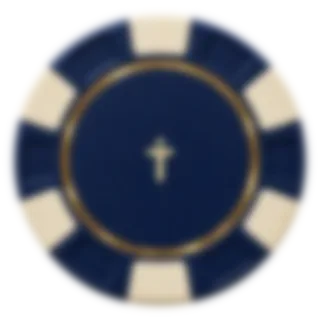
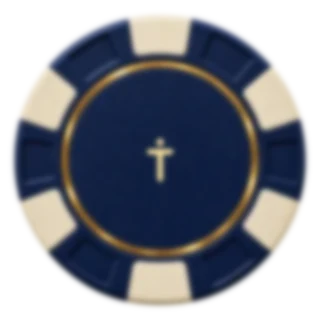
feat: Gate B round 11 title redesign with topper and belly options, remove chip and coin ghost rings

diff --git a/index.html b/index.html
@@ -42,19 +42,26 @@
                 <animate attributeName="x1" values="-.8;.8" dur="3.2s" repeatCount="indefinite"/>
                 <animate attributeName="x2" values=".2;1.8" dur="3.2s" repeatCount="indefinite"/>
               </linearGradient>
-              <image id="marquee-bulb-unlit" href="/assets/mock/marquee-bulb-unlit.webp" x="-7" y="-7" width="14" height="14"/>
-              <image id="marquee-bulb-lit" href="/assets/mock/marquee-bulb-lit.webp" x="-7" y="-7" width="14" height="14"/>
+              <linearGradient id="title-glass" x1="0" y1="0" x2="0" y2="1">
+                <stop offset="0" stop-color="#2b070d"/>
+                <stop offset=".48" stop-color="#090506"/>
+                <stop offset="1" stop-color="#310710"/>
+              </linearGradient>
+              <linearGradient id="title-reflection" x1="0" y1="0" x2="1" y2="1">
+                <stop offset="0" stop-color="#fff7d2" stop-opacity=".22"/>
+                <stop offset=".28" stop-color="#fff7d2" stop-opacity="0"/>
+                <stop offset="1" stop-color="#fff7d2" stop-opacity=".08"/>
+              </linearGradient>
+              <image id="marquee-bulb-unlit" href="/assets/mock/marquee-bulb-unlit.webp" x="-15" y="-15" width="30" height="30"/>
+              <image id="marquee-bulb-lit" href="/assets/mock/marquee-bulb-lit.webp" x="-15" y="-15" width="30" height="30"/>
             </defs>
-            <rect x="42" y="18" width="716" height="132" rx="30" fill="#130307" fill-opacity=".92" stroke="#8f5c12" stroke-width="5"/>
-            <rect x="51" y="27" width="698" height="114" rx="24" fill="none" stroke="#e4b94f" stroke-width="2" stroke-opacity=".75"/>
-            <g fill="#ffd66d">
-              <circle cx="28" cy="45" r="6"><animate attributeName="fill-opacity" values=".35;1;.35" dur="1.6s" repeatCount="indefinite"/></circle>
-              <circle cx="772" cy="45" r="6"><animate attributeName="fill-opacity" values="1;.35;1" dur="1.6s" repeatCount="indefinite"/></circle>
-              <circle cx="28" cy="120" r="6"><animate attributeName="fill-opacity" values=".5;1;.5" dur="1.3s" repeatCount="indefinite"/></circle>
-              <circle cx="772" cy="120" r="6"><animate attributeName="fill-opacity" values="1;.5;1" dur="1.3s" repeatCount="indefinite"/></circle>
+            <g class="marquee__panel">
+              <rect x="20" y="10" width="760" height="150" rx="34" fill="#2a1005" stroke="#6d3d09" stroke-width="8"/>
+              <rect x="28" y="18" width="744" height="134" rx="27" fill="url(#title-glass)" stroke="url(#title-gold)" stroke-width="4"/>
+              <path class="marquee__reflection" d="M48 31 H752 Q705 67 530 72 H88 Q58 64 48 31Z" fill="url(#title-reflection)"/>
             </g>
             <g class="marquee__title">
-              <image class="marquee__wordmark" href="/assets/emblem/trust-wordmark.svg" x="96" y="43" width="214" height="66" preserveAspectRatio="xMidYMid meet"/>
+              <image class="marquee__wordmark" href="/assets/emblem/trust-wordmark.svg" x="70" y="47" width="300" height="76" preserveAspectRatio="xMidYMid meet"/>
               <g class="marquee__wordmark-bulbs">
                 <g class="marquee__bulb" style="--i:0" transform="translate(115 48)"><use class="marquee__bulb-unlit" href="#marquee-bulb-unlit"/><use class="marquee__bulb-lit" href="#marquee-bulb-lit"/></g>
                 <g class="marquee__bulb" style="--i:1" transform="translate(101 61)"><use class="marquee__bulb-unlit" href="#marquee-bulb-unlit"/><use class="marquee__bulb-lit" href="#marquee-bulb-lit"/></g><g class="marquee__bulb" style="--i:2" transform="translate(111 61)"><use class="marquee__bulb-unlit" href="#marquee-bulb-unlit"/><use class="marquee__bulb-lit" href="#marquee-bulb-lit"/></g><g class="marquee__bulb" style="--i:3" transform="translate(121 61)"><use class="marquee__bulb-unlit" href="#marquee-bulb-unlit"/><use class="marquee__bulb-lit" href="#marquee-bulb-lit"/></g><g class="marquee__bulb" style="--i:4" transform="translate(132 61)"><use class="marquee__bulb-unlit" href="#marquee-bulb-unlit"/><use class="marquee__bulb-lit" href="#marquee-bulb-lit"/></g>
@@ -64,7 +71,7 @@
                 <g class="marquee__bulb" style="--i:21" transform="translate(258 67)"><use class="marquee__bulb-unlit" href="#marquee-bulb-unlit"/><use class="marquee__bulb-lit" href="#marquee-bulb-lit"/></g><g class="marquee__bulb" style="--i:22" transform="translate(247 63)"><use class="marquee__bulb-unlit" href="#marquee-bulb-unlit"/><use class="marquee__bulb-lit" href="#marquee-bulb-lit"/></g><g class="marquee__bulb" style="--i:23" transform="translate(236 65)"><use class="marquee__bulb-unlit" href="#marquee-bulb-unlit"/><use class="marquee__bulb-lit" href="#marquee-bulb-lit"/></g><g class="marquee__bulb" style="--i:24" transform="translate(229 72)"><use class="marquee__bulb-unlit" href="#marquee-bulb-unlit"/><use class="marquee__bulb-lit" href="#marquee-bulb-lit"/></g><g class="marquee__bulb" style="--i:25" transform="translate(236 79)"><use class="marquee__bulb-unlit" href="#marquee-bulb-unlit"/><use class="marquee__bulb-lit" href="#marquee-bulb-lit"/></g><g class="marquee__bulb" style="--i:26" transform="translate(247 82)"><use class="marquee__bulb-unlit" href="#marquee-bulb-unlit"/><use class="marquee__bulb-lit" href="#marquee-bulb-lit"/></g><g class="marquee__bulb" style="--i:27" transform="translate(258 87)"><use class="marquee__bulb-unlit" href="#marquee-bulb-unlit"/><use class="marquee__bulb-lit" href="#marquee-bulb-lit"/></g><g class="marquee__bulb" style="--i:28" transform="translate(261 96)"><use class="marquee__bulb-unlit" href="#marquee-bulb-unlit"/><use class="marquee__bulb-lit" href="#marquee-bulb-lit"/></g><g class="marquee__bulb" style="--i:29" transform="translate(250 103)"><use class="marquee__bulb-unlit" href="#marquee-bulb-unlit"/><use class="marquee__bulb-lit" href="#marquee-bulb-lit"/></g><g class="marquee__bulb" style="--i:30" transform="translate(236 100)"><use class="marquee__bulb-unlit" href="#marquee-bulb-unlit"/><use class="marquee__bulb-lit" href="#marquee-bulb-lit"/></g>
                 <g class="marquee__bulb" style="--i:31" transform="translate(289 61)"><use class="marquee__bulb-unlit" href="#marquee-bulb-unlit"/><use class="marquee__bulb-lit" href="#marquee-bulb-lit"/></g><g class="marquee__bulb" style="--i:32" transform="translate(299 61)"><use class="marquee__bulb-unlit" href="#marquee-bulb-unlit"/><use class="marquee__bulb-lit" href="#marquee-bulb-lit"/></g><g class="marquee__bulb" style="--i:33" transform="translate(309 61)"><use class="marquee__bulb-unlit" href="#marquee-bulb-unlit"/><use class="marquee__bulb-lit" href="#marquee-bulb-lit"/></g><g class="marquee__bulb" style="--i:34" transform="translate(291 73)"><use class="marquee__bulb-unlit" href="#marquee-bulb-unlit"/><use class="marquee__bulb-lit" href="#marquee-bulb-lit"/></g><g class="marquee__bulb" style="--i:35" transform="translate(291 86)"><use class="marquee__bulb-unlit" href="#marquee-bulb-unlit"/><use class="marquee__bulb-lit" href="#marquee-bulb-lit"/></g><g class="marquee__bulb" style="--i:36" transform="translate(291 99)"><use class="marquee__bulb-unlit" href="#marquee-bulb-unlit"/><use class="marquee__bulb-lit" href="#marquee-bulb-lit"/></g>
               </g>
-              <text class="marquee__royale" x="520" y="91" text-anchor="middle" fill="url(#title-gold)">ROYALE</text>
+              <text class="marquee__royale" x="550" y="111" text-anchor="middle" fill="url(#title-gold)">ROYALE</text>
               <g class="marquee__royale-bulbs">
                 <g class="marquee__bulb" style="--i:37" transform="translate(409 68)"><use class="marquee__bulb-unlit" href="#marquee-bulb-unlit"/><use class="marquee__bulb-lit" href="#marquee-bulb-lit"/></g><g class="marquee__bulb" style="--i:38" transform="translate(409 82)"><use class="marquee__bulb-unlit" href="#marquee-bulb-unlit"/><use class="marquee__bulb-lit" href="#marquee-bulb-lit"/></g><g class="marquee__bulb" style="--i:39" transform="translate(423 67)"><use class="marquee__bulb-unlit" href="#marquee-bulb-unlit"/><use class="marquee__bulb-lit" href="#marquee-bulb-lit"/></g><g class="marquee__bulb" style="--i:40" transform="translate(425 82)"><use class="marquee__bulb-unlit" href="#marquee-bulb-unlit"/><use class="marquee__bulb-lit" href="#marquee-bulb-lit"/></g>
                 <g class="marquee__bulb" style="--i:41" transform="translate(459 68)"><use class="marquee__bulb-unlit" href="#marquee-bulb-unlit"/><use class="marquee__bulb-lit" href="#marquee-bulb-lit"/></g><g class="marquee__bulb" style="--i:42" transform="translate(453 80)"><use class="marquee__bulb-unlit" href="#marquee-bulb-unlit"/><use class="marquee__bulb-lit" href="#marquee-bulb-lit"/></g><g class="marquee__bulb" style="--i:43" transform="translate(459 92)"><use class="marquee__bulb-unlit" href="#marquee-bulb-unlit"/><use class="marquee__bulb-lit" href="#marquee-bulb-lit"/></g><g class="marquee__bulb" style="--i:44" transform="translate(469 80)"><use class="marquee__bulb-unlit" href="#marquee-bulb-unlit"/><use class="marquee__bulb-lit" href="#marquee-bulb-lit"/></g>
@@ -74,7 +81,11 @@
                 <g class="marquee__bulb" style="--i:56" transform="translate(636 68)"><use class="marquee__bulb-unlit" href="#marquee-bulb-unlit"/><use class="marquee__bulb-lit" href="#marquee-bulb-lit"/></g><g class="marquee__bulb" style="--i:57" transform="translate(636 80)"><use class="marquee__bulb-unlit" href="#marquee-bulb-unlit"/><use class="marquee__bulb-lit" href="#marquee-bulb-lit"/></g><g class="marquee__bulb" style="--i:58" transform="translate(636 91)"><use class="marquee__bulb-unlit" href="#marquee-bulb-unlit"/><use class="marquee__bulb-lit" href="#marquee-bulb-lit"/></g><g class="marquee__bulb" style="--i:59" transform="translate(650 68)"><use class="marquee__bulb-unlit" href="#marquee-bulb-unlit"/><use class="marquee__bulb-lit" href="#marquee-bulb-lit"/></g><g class="marquee__bulb" style="--i:60" transform="translate(648 80)"><use class="marquee__bulb-unlit" href="#marquee-bulb-unlit"/><use class="marquee__bulb-lit" href="#marquee-bulb-lit"/></g><g class="marquee__bulb" style="--i:61" transform="translate(650 91)"><use class="marquee__bulb-unlit" href="#marquee-bulb-unlit"/><use class="marquee__bulb-lit" href="#marquee-bulb-lit"/></g>
               </g>
             </g>
-            <text class="marquee__subtitle" x="400" y="130" text-anchor="middle">Heating for Humans</text>
+            <g class="marquee__frame-bulbs">
+              <g class="marquee__frame-bulb" style="--i:0" transform="translate(86 22)"><use class="marquee__bulb-unlit" href="#marquee-bulb-unlit"/><use class="marquee__bulb-lit" href="#marquee-bulb-lit"/></g><g class="marquee__frame-bulb" style="--i:1" transform="translate(134 22)"><use class="marquee__bulb-unlit" href="#marquee-bulb-unlit"/><use class="marquee__bulb-lit" href="#marquee-bulb-lit"/></g><g class="marquee__frame-bulb" style="--i:2" transform="translate(182 22)"><use class="marquee__bulb-unlit" href="#marquee-bulb-unlit"/><use class="marquee__bulb-lit" href="#marquee-bulb-lit"/></g><g class="marquee__frame-bulb" style="--i:3" transform="translate(230 22)"><use class="marquee__bulb-unlit" href="#marquee-bulb-unlit"/><use class="marquee__bulb-lit" href="#marquee-bulb-lit"/></g><g class="marquee__frame-bulb" style="--i:4" transform="translate(278 22)"><use class="marquee__bulb-unlit" href="#marquee-bulb-unlit"/><use class="marquee__bulb-lit" href="#marquee-bulb-lit"/></g><g class="marquee__frame-bulb" style="--i:5" transform="translate(326 22)"><use class="marquee__bulb-unlit" href="#marquee-bulb-unlit"/><use class="marquee__bulb-lit" href="#marquee-bulb-lit"/></g><g class="marquee__frame-bulb" style="--i:6" transform="translate(374 22)"><use class="marquee__bulb-unlit" href="#marquee-bulb-unlit"/><use class="marquee__bulb-lit" href="#marquee-bulb-lit"/></g><g class="marquee__frame-bulb" style="--i:7" transform="translate(426 22)"><use class="marquee__bulb-unlit" href="#marquee-bulb-unlit"/><use class="marquee__bulb-lit" href="#marquee-bulb-lit"/></g><g class="marquee__frame-bulb" style="--i:8" transform="translate(474 22)"><use class="marquee__bulb-unlit" href="#marquee-bulb-unlit"/><use class="marquee__bulb-lit" href="#marquee-bulb-lit"/></g><g class="marquee__frame-bulb" style="--i:9" transform="translate(522 22)"><use class="marquee__bulb-unlit" href="#marquee-bulb-unlit"/><use class="marquee__bulb-lit" href="#marquee-bulb-lit"/></g><g class="marquee__frame-bulb" style="--i:10" transform="translate(570 22)"><use class="marquee__bulb-unlit" href="#marquee-bulb-unlit"/><use class="marquee__bulb-lit" href="#marquee-bulb-lit"/></g><g class="marquee__frame-bulb" style="--i:11" transform="translate(618 22)"><use class="marquee__bulb-unlit" href="#marquee-bulb-unlit"/><use class="marquee__bulb-lit" href="#marquee-bulb-lit"/></g><g class="marquee__frame-bulb" style="--i:12" transform="translate(666 22)"><use class="marquee__bulb-unlit" href="#marquee-bulb-unlit"/><use class="marquee__bulb-lit" href="#marquee-bulb-lit"/></g><g class="marquee__frame-bulb" style="--i:13" transform="translate(714 22)"><use class="marquee__bulb-unlit" href="#marquee-bulb-unlit"/><use class="marquee__bulb-lit" href="#marquee-bulb-lit"/></g>
+              <g class="marquee__frame-bulb" style="--i:14" transform="translate(86 148)"><use class="marquee__bulb-unlit" href="#marquee-bulb-unlit"/><use class="marquee__bulb-lit" href="#marquee-bulb-lit"/></g><g class="marquee__frame-bulb" style="--i:15" transform="translate(134 148)"><use class="marquee__bulb-unlit" href="#marquee-bulb-unlit"/><use class="marquee__bulb-lit" href="#marquee-bulb-lit"/></g><g class="marquee__frame-bulb" style="--i:16" transform="translate(182 148)"><use class="marquee__bulb-unlit" href="#marquee-bulb-unlit"/><use class="marquee__bulb-lit" href="#marquee-bulb-lit"/></g><g class="marquee__frame-bulb" style="--i:17" transform="translate(230 148)"><use class="marquee__bulb-unlit" href="#marquee-bulb-unlit"/><use class="marquee__bulb-lit" href="#marquee-bulb-lit"/></g><g class="marquee__frame-bulb" style="--i:18" transform="translate(278 148)"><use class="marquee__bulb-unlit" href="#marquee-bulb-unlit"/><use class="marquee__bulb-lit" href="#marquee-bulb-lit"/></g><g class="marquee__frame-bulb" style="--i:19" transform="translate(326 148)"><use class="marquee__bulb-unlit" href="#marquee-bulb-unlit"/><use class="marquee__bulb-lit" href="#marquee-bulb-lit"/></g><g class="marquee__frame-bulb" style="--i:20" transform="translate(374 148)"><use class="marquee__bulb-unlit" href="#marquee-bulb-unlit"/><use class="marquee__bulb-lit" href="#marquee-bulb-lit"/></g><g class="marquee__frame-bulb" style="--i:21" transform="translate(426 148)"><use class="marquee__bulb-unlit" href="#marquee-bulb-unlit"/><use class="marquee__bulb-lit" href="#marquee-bulb-lit"/></g><g class="marquee__frame-bulb" style="--i:22" transform="translate(474 148)"><use class="marquee__bulb-unlit" href="#marquee-bulb-unlit"/><use class="marquee__bulb-lit" href="#marquee-bulb-lit"/></g><g class="marquee__frame-bulb" style="--i:23" transform="translate(522 148)"><use class="marquee__bulb-unlit" href="#marquee-bulb-unlit"/><use class="marquee__bulb-lit" href="#marquee-bulb-lit"/></g><g class="marquee__frame-bulb" style="--i:24" transform="translate(570 148)"><use class="marquee__bulb-unlit" href="#marquee-bulb-unlit"/><use class="marquee__bulb-lit" href="#marquee-bulb-lit"/></g><g class="marquee__frame-bulb" style="--i:25" transform="translate(618 148)"><use class="marquee__bulb-unlit" href="#marquee-bulb-unlit"/><use class="marquee__bulb-lit" href="#marquee-bulb-lit"/></g><g class="marquee__frame-bulb" style="--i:26" transform="translate(666 148)"><use class="marquee__bulb-unlit" href="#marquee-bulb-unlit"/><use class="marquee__bulb-lit" href="#marquee-bulb-lit"/></g><g class="marquee__frame-bulb" style="--i:27" transform="translate(714 148)"><use class="marquee__bulb-unlit" href="#marquee-bulb-unlit"/><use class="marquee__bulb-lit" href="#marquee-bulb-lit"/></g>
+              <g class="marquee__frame-bulb" style="--i:28" transform="translate(45 55)"><use class="marquee__bulb-unlit" href="#marquee-bulb-unlit"/><use class="marquee__bulb-lit" href="#marquee-bulb-lit"/></g><g class="marquee__frame-bulb" style="--i:29" transform="translate(45 85)"><use class="marquee__bulb-unlit" href="#marquee-bulb-unlit"/><use class="marquee__bulb-lit" href="#marquee-bulb-lit"/></g><g class="marquee__frame-bulb" style="--i:30" transform="translate(45 115)"><use class="marquee__bulb-unlit" href="#marquee-bulb-unlit"/><use class="marquee__bulb-lit" href="#marquee-bulb-lit"/></g><g class="marquee__frame-bulb" style="--i:31" transform="translate(755 55)"><use class="marquee__bulb-unlit" href="#marquee-bulb-unlit"/><use class="marquee__bulb-lit" href="#marquee-bulb-lit"/></g><g class="marquee__frame-bulb" style="--i:32" transform="translate(755 85)"><use class="marquee__bulb-unlit" href="#marquee-bulb-unlit"/><use class="marquee__bulb-lit" href="#marquee-bulb-lit"/></g><g class="marquee__frame-bulb" style="--i:33" transform="translate(755 115)"><use class="marquee__bulb-unlit" href="#marquee-bulb-unlit"/><use class="marquee__bulb-lit" href="#marquee-bulb-lit"/></g>
+            </g>
           </svg>
         </header>
         <section id="paytable" class="paytable" aria-label="Prize paytable">

diff --git a/tests/e2e/layout.spec.ts b/tests/e2e/layout.spec.ts
@@ -38,13 +38,11 @@ test("full-screen mock fits all required viewports", async ({ page }, testInfo) 
     ]);
     await expect(page.locator("#paytable > .paytable__rule img"), `${viewport.name} paytable medallions`).toHaveCount(21);
     await expect(page.locator('#paytable img[src="/assets/mock/gia-medallion.webp"]'), `${viewport.name} Gia paytable medallions`).toHaveCount(4);
-    await expect(page.locator(".marquee__bulb"), `${viewport.name} real title bulbs`).toHaveCount(62);
+    await expect(page.locator(".marquee__frame-bulb"), `${viewport.name} framing bulbs`).toHaveCount(34);
     const dimensions = await page.evaluate(() => {
       const bounds = document.querySelector("canvas")?.getBoundingClientRect();
       const marquee = document.querySelector("#marquee")?.getBoundingClientRect();
-      const marqueePlate = document.querySelector("#marquee svg > rect")?.getBoundingClientRect();
       const marqueeTitle = document.querySelector(".marquee__title")?.getBoundingClientRect();
-      const marqueeSubtitle = document.querySelector(".marquee__subtitle")?.getBoundingClientRect();
       return {
         scrollWidth: document.documentElement.scrollWidth,
         scrollHeight: document.documentElement.scrollHeight,
@@ -52,9 +50,7 @@ test("full-screen mock fits all required viewports", async ({ page }, testInfo) 
         innerHeight,
         canvas: bounds && { left: bounds.left, top: bounds.top, right: bounds.right, bottom: bounds.bottom },
         marquee: marquee && { left: marquee.left, top: marquee.top, right: marquee.right, bottom: marquee.bottom },
-        marqueePlate: marqueePlate && { left: marqueePlate.left, top: marqueePlate.top, right: marqueePlate.right, bottom: marqueePlate.bottom },
         marqueeTitle: marqueeTitle && { left: marqueeTitle.left, top: marqueeTitle.top, right: marqueeTitle.right, bottom: marqueeTitle.bottom },
-        marqueeSubtitle: marqueeSubtitle && { left: marqueeSubtitle.left, top: marqueeSubtitle.top, right: marqueeSubtitle.right, bottom: marqueeSubtitle.bottom },
       };
     });
     expect(dimensions.scrollWidth, `${viewport.name} horizontal overflow`).toBeLessThanOrEqual(dimensions.innerWidth);
@@ -68,18 +64,14 @@ test("full-screen mock fits all required viewports", async ({ page }, testInfo) 
     expect(dimensions.marqueeTitle!.top, `${viewport.name} title top inset`).toBeGreaterThan(dimensions.marquee!.top);
     expect(dimensions.marqueeTitle!.right, `${viewport.name} title right inset`).toBeLessThan(dimensions.marquee!.right);
     expect(dimensions.marqueeTitle!.bottom, `${viewport.name} title bottom inset`).toBeLessThan(dimensions.marquee!.bottom);
-    expect(dimensions.marqueeTitle!.left, `${viewport.name} title inside plate left`).toBeGreaterThan(dimensions.marqueePlate!.left);
-    expect(dimensions.marqueeTitle!.top, `${viewport.name} title inside plate top`).toBeGreaterThan(dimensions.marqueePlate!.top);
-    expect(dimensions.marqueeTitle!.right, `${viewport.name} title inside plate right`).toBeLessThan(dimensions.marqueePlate!.right);
-    expect(dimensions.marqueeTitle!.bottom, `${viewport.name} title inside plate bottom`).toBeLessThan(dimensions.marqueePlate!.bottom);
-    if (dimensions.marqueeSubtitle!.bottom > dimensions.marqueeSubtitle!.top) {
-      expect(dimensions.marqueeSubtitle!.left, `${viewport.name} subtitle inside plate left`).toBeGreaterThan(dimensions.marqueePlate!.left);
-      expect(dimensions.marqueeSubtitle!.right, `${viewport.name} subtitle inside plate right`).toBeLessThan(dimensions.marqueePlate!.right);
-      expect(dimensions.marqueeSubtitle!.bottom, `${viewport.name} subtitle inside plate bottom`).toBeLessThan(dimensions.marqueePlate!.bottom);
-    }
     await page.screenshot({
       path: path.join(process.cwd(), "tests/e2e/__screenshots__", `${viewport.name}-${viewport.width}x${viewport.height}.png`),
       animations: "disabled",
     });
   }
+
+  await page.setViewportSize({ width: 1920, height: 1080 });
+  await page.goto("/?title=topper");
+  await page.waitForFunction(() => document.documentElement.dataset.ready === "true");
+  await expect(page.locator(".marquee__frame-bulbs"), "topper reuses cabinet arch bulbs").toBeHidden();
 });

diff --git a/src/scene/background.ts b/src/scene/background.ts
@@ -37,7 +37,6 @@ interface FloatingItem {
   baseY: number;
   kind: FloatingKind;
   face?: Container;
-  edge?: Graphics;
 }
 
 export interface EnvironmentScene {
@@ -74,31 +73,6 @@ function chip(texture: Texture): Container {
   node.addChild(sprite(texture, 120));
   node.addChild(neosMark(38, 0xffe6a0));
   return node;
-}
-
-function edgeBand(kind: "chip" | "coin", index: number): Graphics {
-  const edge = new Graphics();
-  if (kind === "coin") {
-    edge.circle(0, 0, 55).fill({ color: 0xbd7b18 }).stroke({ color: 0xffe7a0, width: 3 });
-    edge.circle(0, 0, 48).stroke({ color: 0x754308, width: 3, alpha: 0.8 });
-    for (let mark = 0; mark < 24; mark += 1) {
-      const angle = (mark / 24) * Math.PI * 2;
-      edge.moveTo(Math.cos(angle) * 48, Math.sin(angle) * 48)
-        .lineTo(Math.cos(angle) * 54, Math.sin(angle) * 54)
-        .stroke({ color: 0x754308, width: 2, alpha: 0.82 });
-    }
-    return edge;
-  }
-  const colours = [0x9f0d1e, 0xc89528, 0x10295b, 0xe7ddc8];
-  edge.circle(0, 0, 58).fill({ color: colours[index % colours.length] }).stroke({ color: 0xffe7a0, width: 3 });
-  edge.circle(0, 0, 48).stroke({ color: 0xf2dfbd, width: 4, alpha: 0.88 });
-  for (let mark = 0; mark < 12; mark += 1) {
-    const angle = (mark / 12) * Math.PI * 2;
-    edge.moveTo(Math.cos(angle) * 49, Math.sin(angle) * 49)
-      .lineTo(Math.cos(angle) * 57, Math.sin(angle) * 57)
-      .stroke({ color: 0xf2dfbd, width: 5, alpha: 0.9 });
-  }
-  return edge;
 }
 
 function card(index: number): Container {
@@ -160,22 +134,20 @@ export async function createBackground(): Promise<EnvironmentScene> {
     const kind: FloatingKind = index % 7 === 0 ? "card" : index % 4 === 3 ? "coin" : "chip";
     let node: Container;
     let face: Container | undefined;
-    let edge: Graphics | undefined;
     if (kind === "card") {
       node = card(index);
     } else {
       node = new Container();
-      edge = edgeBand(kind, index);
       face = kind === "coin"
         ? new Container({ children: [sprite(depth === "mid" ? textures.coin : depth === "near" ? textures.coinNear : textures.coinFar, 110)] })
         : depth === "mid"
           ? chip(itemTextures[index % itemTextures.length])
           : new Container({ children: [sprite(depthTextures[index % depthTextures.length], 120)] });
-      node.addChild(edge, face);
+      node.addChild(face);
     }
     (depth === "near" ? nearLayer : depth === "far" ? farLayer : midLayer).addChild(node);
     const baseRotation = kind === "card" ? node.rotation : ((index % 5) - 2) * 0.12;
-    items.push({ node, depth, kind, face, edge, nx, ny, phase: index * 0.71, baseRotation, baseSize: depth === "near" ? 1.15 : depth === "far" ? 0.52 : 0.82, baseX: 0, baseY: 0 });
+    items.push({ node, depth, kind, face, nx, ny, phase: index * 0.71, baseRotation, baseSize: depth === "near" ? 1.15 : depth === "far" ? 0.52 : 0.82, baseX: 0, baseY: 0 });
   });
 
   return {
@@ -242,7 +214,6 @@ export function animateBackground(scene: EnvironmentScene, timeSeconds: number):
     if (item.face) {
       const perspective = floatingFaceScaleY(timeSeconds, speed, item.phase);
       item.face.scale.set(1, perspective);
-      if (item.edge) item.edge.alpha = 0.22;
     }
   });
 }

diff --git a/src/scene/layout.ts b/src/scene/layout.ts
@@ -1,4 +1,4 @@
-import { CABINET_ART, CABINET_DESIGN } from "./cabinetArt";
+import { CABINET_ART, CABINET_DESIGN, DEFAULT_TITLE_PLACEMENT, type TitlePlacement } from "./cabinetArt";
 
 export interface SafeAreaInsets { top: number; right: number; bottom: number; left: number }
 export interface LayoutRect { x: number; y: number; width: number; height: number }
@@ -25,9 +25,9 @@ function scaled(frame: LayoutRect, designWidth: number, designHeight: number) {
   return { ...frame, scale: Math.min(frame.width / designWidth, frame.height / designHeight) };
 }
 
-function overlays(machine: SceneLayout["machine"]): Pick<SceneLayout, "marquee" | "spinButton"> {
+function overlays(machine: SceneLayout["machine"], titlePlacement: TitlePlacement): Pick<SceneLayout, "marquee" | "spinButton"> {
   const scale = machine.scale;
-  const marqueeArt = CABINET_ART.marqueeFrame;
+  const marqueeArt = CABINET_ART.titlePlacements[titlePlacement];
   const marquee = scaled(rect(
     machine.x + marqueeArt.x * scale,
     machine.y + marqueeArt.y * scale,
@@ -51,7 +51,7 @@ function overlays(machine: SceneLayout["machine"]): Pick<SceneLayout, "marquee" 
   return { marquee, spinButton };
 }
 
-export function computeLayout(width: number, height: number, safeAreaInsets: SafeAreaInsets): SceneLayout {
+export function computeLayout(width: number, height: number, safeAreaInsets: SafeAreaInsets, titlePlacement: TitlePlacement = DEFAULT_TITLE_PLACEMENT): SceneLayout {
   const viewport = rect(0, 0, Math.max(1, width), Math.max(1, height));
   const safeBounds = rect(
     Math.max(0, safeAreaInsets.left),
@@ -75,7 +75,7 @@ export function computeLayout(width: number, height: number, safeAreaInsets: Saf
     const paytable = scaled(rect(content.x, content.y, content.width, paytableHeight), 960, 150);
     const wheelSize = Math.min(content.width * 0.48, machine.height * 0.27);
     const chipTray = scaled(rect(content.x + content.width - wheelSize, machine.y + machine.height * 0.1, wheelSize, wheelSize), 560, 560);
-    return { orientation, viewport, safeBounds, background, paytable, machine, chipTray, ...overlays(machine) };
+    return { orientation, viewport, safeBounds, background, paytable, machine, chipTray, ...overlays(machine, titlePlacement) };
   }
 
   const machineHeight = content.height;
@@ -89,5 +89,5 @@ export function computeLayout(width: number, height: number, safeAreaInsets: Saf
     : Math.min(content.height * 0.72, panelWidth * 1.9);
   const paytable = scaled(rect(content.x, content.y + (content.height - panelHeight) / 2, panelWidth, panelHeight), 390, 620);
   const chipTray = scaled(rect(content.x + content.width - panelWidth, content.y + (content.height - panelHeight) / 2, panelWidth, panelHeight), 390, 620);
-  return { orientation, viewport, safeBounds, background, paytable, machine, chipTray, ...overlays(machine) };
+  return { orientation, viewport, safeBounds, background, paytable, machine, chipTray, ...overlays(machine, titlePlacement) };
 }

diff --git a/src/main.ts b/src/main.ts
@@ -3,6 +3,7 @@ import { gsap } from "gsap";
 import "./styles/main.css";
 import { animateBackground, createBackground, drawBackground } from "./scene/background";
 import { animateCabinet, createCabinet, layoutCabinet } from "./scene/cabinet";
+import { DEFAULT_TITLE_PLACEMENT, type TitlePlacement } from "./scene/cabinetArt";
 import { computeLayout, type LayoutRect, type SafeAreaInsets } from "./scene/layout";
 
 function readSafeAreaInsets(): SafeAreaInsets {
@@ -48,6 +49,11 @@ async function boot(): Promise<void> {
   host.appendChild(app.canvas);
 
   const [environment, cabinet] = await Promise.all([createBackground(), createCabinet()]);
+  const requestedPlacement = new URLSearchParams(window.location.search).get("title");
+  const titlePlacement: TitlePlacement = requestedPlacement === "topper" || requestedPlacement === "belly"
+    ? requestedPlacement
+    : DEFAULT_TITLE_PLACEMENT;
+  document.documentElement.dataset.titlePlacement = titlePlacement;
   app.stage.addChild(environment.back, cabinet.machine, environment.front);
   (window as Window & { __trustRoyaleDebug?: { reelSymbols: typeof cabinet.reelSymbols } }).__trustRoyaleDebug = {
     reelSymbols: cabinet.reelSymbols,
@@ -89,7 +95,7 @@ async function boot(): Promise<void> {
   let pendingFrame = 0;
   const renderLayout = () => {
     pendingFrame = 0;
-    const layout = computeLayout(window.innerWidth, window.innerHeight, readSafeAreaInsets());
+    const layout = computeLayout(window.innerWidth, window.innerHeight, readSafeAreaInsets(), titlePlacement);
     document.documentElement.dataset.orientation = layout.orientation;
     document.documentElement.style.setProperty("--ui-scale", String(Math.max(0.62, Math.min(1.25, layout.machine.scale))));
     placeElement(marquee, layout.marquee);

diff --git a/src/styles/main.css b/src/styles/main.css
@@ -72,6 +72,8 @@ body {
   filter: drop-shadow(0 3px 3px rgba(0, 0, 0, .8)) drop-shadow(0 0 9px rgba(255, 199, 74, .28));
 }
 
+html[data-title-placement="topper"] .marquee__frame-bulbs { display: none; }
+
 .marquee svg {
   display: block;
   width: 100%;
@@ -80,19 +82,25 @@ body {
 }
 
 .marquee__title {
-  filter: drop-shadow(0 2px 1px #1b0004) drop-shadow(0 0 7px rgba(255, 98, 88, .25));
+  filter: drop-shadow(0 1px 1px rgba(255, 245, 205, .65)) drop-shadow(0 0 9px rgba(255, 196, 72, .72)) drop-shadow(0 0 18px rgba(229, 7, 70, .5));
 }
 
 .marquee__wordmark {
-  filter: drop-shadow(-1px 0 #d4a437) drop-shadow(1px 0 #ffe9a1) drop-shadow(0 -1px #d4a437) drop-shadow(0 1px #6b3607) drop-shadow(0 0 6px rgba(229, 7, 70, .5));
+  filter: drop-shadow(-2px 0 #4b2206) drop-shadow(2px 0 #ffe9a1) drop-shadow(0 -2px #d4a437) drop-shadow(0 2px #180003) drop-shadow(0 0 10px rgba(255, 83, 91, .72));
 }
 
+.marquee__wordmark-bulbs,
+.marquee__royale-bulbs { display: none; }
+
+.marquee__reflection { mix-blend-mode: screen; }
+
 .marquee__royale {
-  font: 700 52px/1 Georgia, serif;
-  letter-spacing: 4px;
+  font: 700 68px/1 Georgia, serif;
+  letter-spacing: 2px;
   paint-order: stroke fill;
-  stroke: #6b3607;
-  stroke-width: 3px;
+  stroke: #321500;
+  stroke-width: 4px;
+  filter: drop-shadow(0 0 9px rgba(255, 209, 94, .7));
 }
 
 .marquee__bulb-unlit { opacity: .94; }
@@ -104,6 +112,8 @@ body {
   animation: wordmark-bulb-pattern 12s ease-in-out infinite;
   animation-delay: calc(var(--i) * -80ms);
 }
+
+.marquee__frame-bulb .marquee__bulb-unlit { opacity: .82; }
 
 @keyframes wordmark-bulb-pattern {
   0%, 2%, 22%, 48%, 72% { opacity: .2; }

diff --git a/src/scene/cabinetArt.ts b/src/scene/cabinetArt.ts
@@ -1,10 +1,14 @@
 export const CABINET_DESIGN = { width: 720, height: 1080 } as const;
+export type TitlePlacement = "topper" | "belly";
+export const DEFAULT_TITLE_PLACEMENT: TitlePlacement = "belly";
 
 // Measured from the 1024 x 1536 generated source, then scaled to design space.
 export const CABINET_ART = {
   source: { width: 1024, height: 1536 },
-  marqueeFrame: { x: 130, y: 70, width: 460, height: 132 },
-  marqueePlate: { x: 154, y: 84, width: 412, height: 102 },
+  titlePlacements: {
+    topper: { x: 160, y: 122, width: 400, height: 110 },
+    belly: { x: 90, y: 780, width: 540, height: 120 },
+  },
   marqueeBulbs: [
     [124, 200], [141, 161], [174, 129], [209, 102], [250, 84], [294, 71],
     [426, 71], [470, 84], [513, 102], [547, 129], [579, 161], [597, 200],

diff --git a/tests/unit/layout.test.ts b/tests/unit/layout.test.ts
@@ -63,4 +63,9 @@ describe("computeLayout", () => {
     expect(layout.spinButton.width).toBeLessThan(openingFrame.width);
     expect(layout.spinButton.height).toBeLessThan(openingFrame.height);
   });
+
+  it.each(["topper", "belly"] as const)("keeps the %s title placement inside the cabinet", (placement) => {
+    const layout = computeLayout(1920, 1080, NONE, placement);
+    expectInside(layout.marquee, layout.machine);
+  });
 });

diff --git a/public/assets/mock/SOURCES.md b/public/assets/mock/SOURCES.md
@@ -42,3 +42,7 @@ The eight `chip-{red,gold,navy,white}-{far,near}.webp` depth derivatives were re
 ## Round 9 correction — photoreal marquee bulbs
 
 `marquee-bulb-lit.webp` and `marquee-bulb-unlit.webp` were generated separately with OpenAI's built-in image tool (`gpt-image-2`) as front-on transparent cutouts. Untouched sources are `reference/_work/generated/marquee-bulb-lit.png` and `reference/_work/generated/marquee-bulb-unlit.png`; exact prompts are in `reference/_work/generated/marquee-bulb-prompts.txt`. Delivery processing only resizes each to 128×128, strips metadata, and encodes WebP.
+
+## Ghost-halo correction
+
+The four `chip-*-near.webp` derivatives and `coin-near.webp` were rebuilt from their clean transparent source faces with a reduced ImageMagick Gaussian blur (`0x2.6`). This removes the previous wide near-field alpha fringe while retaining baked depth softness. No generative model or new artwork was used.
